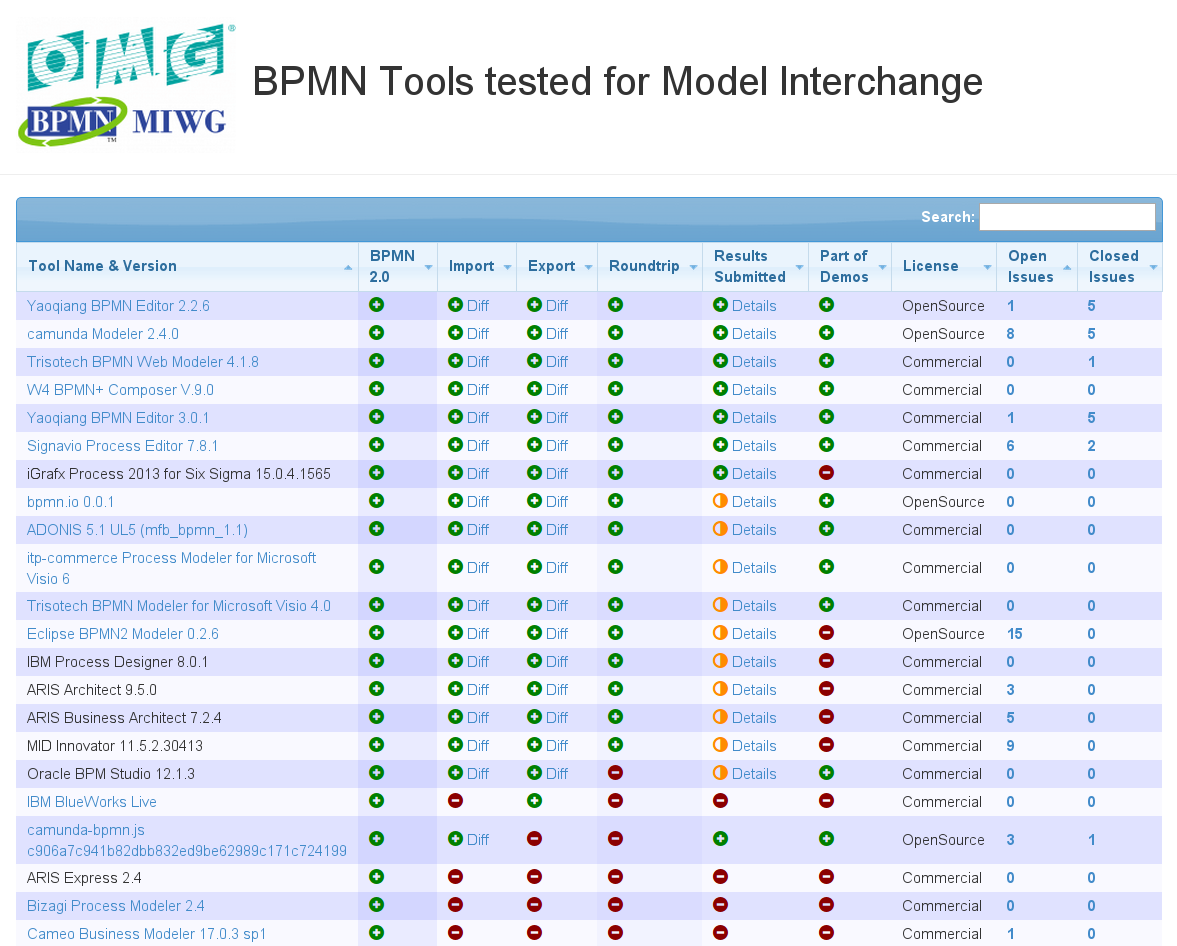
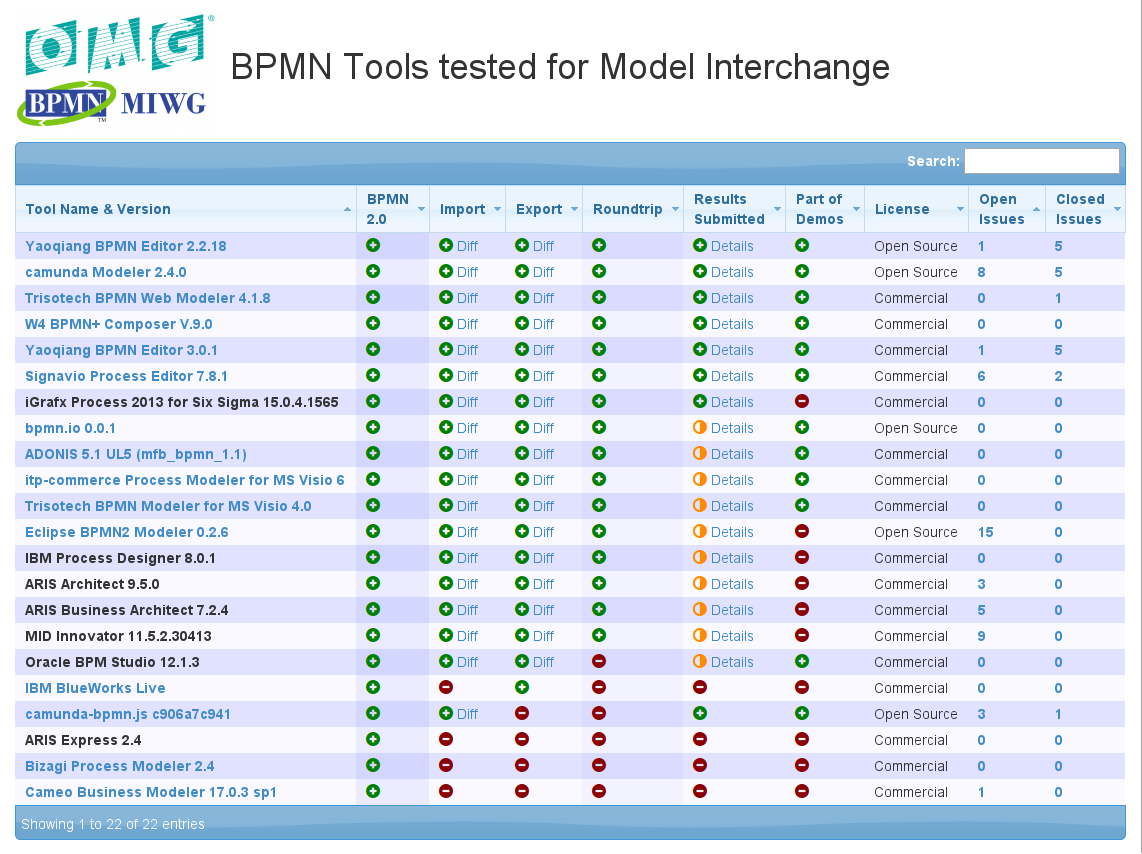
Less space wasted by header

diff --git a/bpmn-tool-list/bpmn-tools.html b/bpmn-tool-list/bpmn-tools.html
@@ -208,9 +208,7 @@
     </script>
   </head>
   <body>
-    <div class="page-header">
-      <h1><img style="margin: 0 15px;" src="http://omgwiki.org/bpmn-miwg/lib/exe/fetch.php?w=200&amp;media=miwg-logo-827x512.png" class="mediacenter" alt="" width="200">BPMN Tools tested for Model Interchange</h1>
-    </div>
+    <h1><img style="margin: 0 15px;" src="http://omgwiki.org/bpmn-miwg/lib/exe/fetch.php?w=200&amp;media=miwg-logo-827x512.png" class="mediacenter" alt="" width="200">BPMN Tools tested for Model Interchange</h1>
     <div style="padding: 0 15px;">
       <table id="bpmn-tools" class="display" width="100%">
         <thead>
